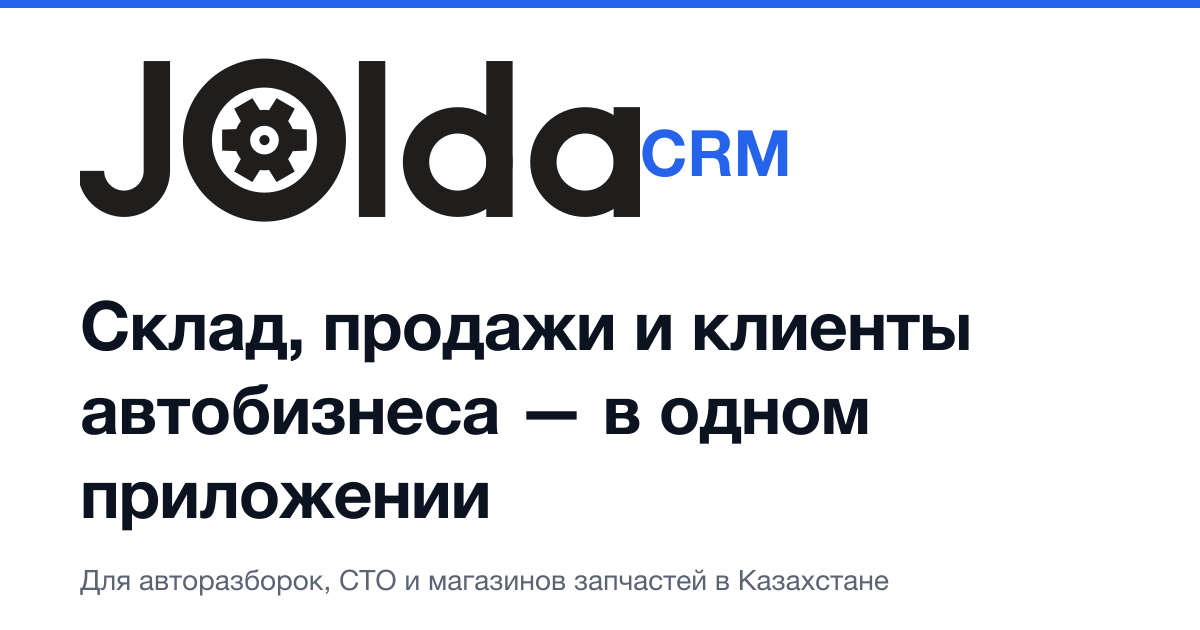
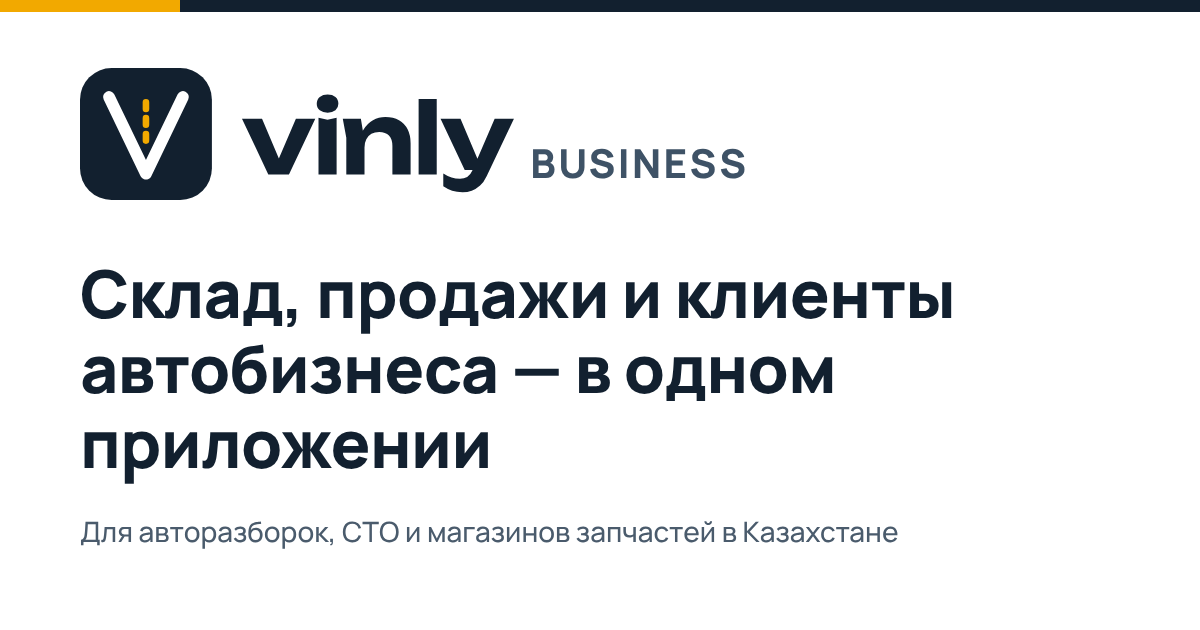
Логотип Vinly (знак «дорога-V») вместо логотипа Jolda
- B2B: новые иконка, фон adaptive icon, логотип в шапке и знак для
  чеков и этикеток (чёрный, под термопечать); подпись рядом с логотипом
  CRM -> Business. Иконки платформ нужно перегенерировать:
  dart run flutter_launcher_icons.
- Лендинг: logo.svg, icon.svg, apple-icon, OG/Twitter-картинки.
- LOGO.svg в корне. Слово vinly переведено в кривые (Unbounded 600).

Claude-Session: https://claude.ai/code/session_01AqUdUbiPP5sdqV8o6Xy3Fp

diff --git a/autohub_b2b/lib/main.dart b/autohub_b2b/lib/main.dart
@@ -443,13 +443,13 @@ class _MainScreenState extends State<MainScreen> {
                                       crossAxisAlignment: CrossAxisAlignment.end,
                                       children: [
                                         Image.asset(
-                                          'assets/icons/jolda-logo.png',
+                                          'assets/icons/vinly-logo.png',
                                           height: 26,
                                           fit: BoxFit.contain,
                                         ),
                                         const SizedBox(width: 6),
                                         const Text(
-                                          'CRM',
+                                          'Business',
                                           style: TextStyle(
                                             fontSize: 21,
                                             fontWeight: FontWeight.bold,
@@ -719,13 +719,13 @@ class _MainScreenState extends State<MainScreen> {
                         crossAxisAlignment: CrossAxisAlignment.end,
                         children: [
                           Image.asset(
-                            'assets/icons/jolda-logo.png',
+                            'assets/icons/vinly-logo.png',
                             height: 26,
                             fit: BoxFit.contain,
                           ),
                           const SizedBox(width: 6),
                           const Text(
-                            'CRM',
+                            'Business',
                             style: TextStyle(
                               fontSize: 21,
                               fontWeight: FontWeight.bold,

diff --git a/landing/src/components/Header.tsx b/landing/src/components/Header.tsx
@@ -9,7 +9,7 @@ export function Header() {
     <header className="header">
       <div className="container header-inner">
         <a href="#top" className="brand" aria-label={`${brand.name} — наверх`}>
-          <img src="/logo.svg" alt="Jolda" width={95} height={30} className="brand-mark" />
+          <img src="/logo.svg" alt="Vinly" width={99} height={30} className="brand-mark" />
           <span className="brand-name" aria-hidden="true">CRM</span>
         </a>
         <nav className="nav" aria-label="Разделы страницы">

diff --git a/autohub_b2b/lib/models/label_product_model.dart b/autohub_b2b/lib/models/label_product_model.dart
@@ -63,7 +63,7 @@ class LabelProductData {
     this.qrPayload,
     /// Явное значение для CODE128 (только печатаемый ASCII 32–126). Если null — из [sku].
     this.barcodeData,
-    this.logoAssetPath = 'assets/icons/jolda-mark.png',
+    this.logoAssetPath = 'assets/icons/vinly-mark.png',
     this.warehouseCell,
   });
 

diff --git a/autohub_b2b/lib/models/receipt_document_model.dart b/autohub_b2b/lib/models/receipt_document_model.dart
@@ -30,7 +30,7 @@ class ReceiptDocumentData {
     this.statement,
     this.signatures = const [],
     this.currencySymbol = '₸',
-    this.logoAssetPath = 'assets/icons/jolda-mark.png',
+    this.logoAssetPath = 'assets/icons/vinly-mark.png',
   });
 
   final String companyName;

diff --git a/landing/README.md b/landing/README.md
@@ -59,7 +59,7 @@ node scripts/optimize-screens.mjs <папка-с-png>
 - SEO: title/description, Open Graph и Twitter-карточка, canonical, JSON-LD (`SoftwareApplication` и `FAQPage` из `src/content/site.ts`, без цен и рейтингов), `opengraph-image.png`/`twitter-image.png` (1200×630, сделаны вручную: при смене текста перегенерируйте), `apple-icon.png`. После запуска добавьте сайт в Google Search Console и Яндекс Вебмастер и отправьте sitemap.
 - Аналитика и пиксели не подключены.
 - Шрифты: Unbounded + Manrope через `next/font/google` (нужен доступ в сеть при сборке); замена — в `src/app/layout.tsx` и переменных `--font-display` / `--font-sans` в `globals.css`.
-- Название «Jolda CRM» и логотип (куб из `LOGO.svg`) теперь и в приложении, и на сайте (`public/logo.svg`, `src/app/icon.svg`).
+- Название «Vinly Business» и логотип (знак «дорога-V» из `LOGO.svg`) теперь и в приложении, и на сайте (`public/logo.svg`, `src/app/icon.svg`).
 - Широкие кадры `public/screens/desktop-*.webp` сняты в macOS-версии приложения (release-сборка, демо-база), с обрезанным заголовком окна.
 
 ## Правила контента
